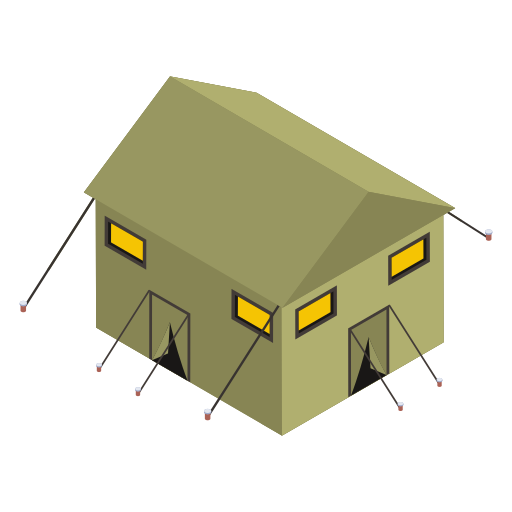
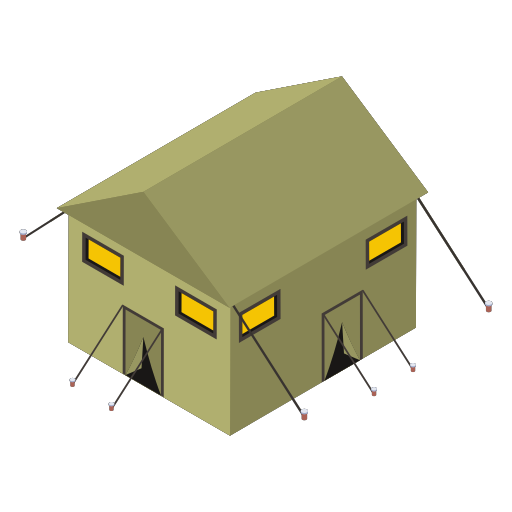
trung

diff --git a/Behaviour_Attack.m b/Behaviour_Attack.m
@@ -37,7 +37,8 @@ v_AlphaBM = imresize(v_AlphaBM, [ImageWidth ImageWidth], 'lanczos3' );
 [v_ImageBF,v_AlphaBF,v_ImageF,v_AlphaF, v_ImageBat, v_AlphaBat]=LoadImageBase();
 [v_ImageBoom,v_AlphaBoom,v_ImageN,v_AlphaN,v_ImageEmpty,v_AlphaEmpty]=LoadImageBoom();
 [v_ImageFR,v_AlphaFR,v_ImageFB,v_AlphaFB]=LoadImageFlag();
-[v_ImageFence,v_AlphaFence]=LoadImageFence();
+[v_ImageFence1,v_AlphaFence1]=LoadImageFence1();
+[v_ImageFence2,v_AlphaFence2]=LoadImageFence2();
 [v_ImageHome,v_AlphaHome]=LoadImageHome();
 
 % draw graphic
@@ -47,8 +48,8 @@ v_AlphaBM = imresize(v_AlphaBM, [ImageWidth ImageWidth], 'lanczos3' );
 [BasesPlot]=InitializeBase(v_ImageBF,v_AlphaBF);
 
 % draw fence and house
-[FencePlot]=InitializeFence(v_ImageFence,v_AlphaFence);
-
+[Fence1Plot]=InitializeFence1(v_ImageFence1,v_AlphaFence1);
+[Fence2Plot]=InitializeFence2(v_ImageFence2,v_AlphaFence2);
 [HousePlot]=InitializeHouse(v_ImageHome,v_AlphaHome);
 
 % draw flight

diff --git a/InitializeFence1.m b/InitializeFence1.m
@@ -1,0 +1,14 @@
+function [Fence1Plot]=InitializeFence(v_ImageFence1,v_AlphaFence1)
+%%fence1 field
+    angle = 135;	% imrotate rotates ccw     
+    img_i = imrotate(v_ImageFence1, angle);
+    alpha_i = imrotate(v_AlphaFence1, angle );
+    Fence1Plot= image(-405, -90, img_i);
+    Fence1Plot.AlphaData = alpha_i;
+
+%%house field
+%    angle = 0;	% imrotate rotates ccw     
+%    img_i = imrotate(v_ImageHome, angle);
+%    alpha_i = imrotate(v_AlphaHome, angle );
+%    OtherPlot= image(-600, -600, img_i);
+%    OtherPlot.AlphaData = alpha_i;  

diff --git a/InitializeFence2.m b/InitializeFence2.m
@@ -1,0 +1,13 @@
+function [Fence2Plot]=InitializeFence2(v_ImageFence2,v_AlphaFence2)
+%%fence1 field
+    angle = 125;	% imrotate rotates ccw     
+    img_i = imrotate(v_ImageFence2, angle);
+    alpha_i = imrotate(v_AlphaFence2, angle );
+    Fence2Plot= image(-220, 205, img_i);
+    Fence2Plot.AlphaData = alpha_i;
+%%house field
+%    angle = 0;	% imrotate rotates ccw     
+%    img_i = imrotate(v_ImageHome, angle);
+%    alpha_i = imrotate(v_AlphaHome, angle );
+%    OtherPlot= image(-600, -600, img_i);
+%    OtherPlot.AlphaData = alpha_i;  

diff --git a/LoadImageFence1.m b/LoadImageFence1.m
@@ -1,0 +1,13 @@
+function [v_ImageFence1,v_AlphaFence1]=LoadImageFence1()
+
+[v_ImageFence1, ~, v_AlphaFence1]	= imread('hangRao.png');
+v_ImageFence1 = imresize(v_ImageFence1, [33 205], 'lanczos3' );
+v_AlphaFence1 = imresize(v_AlphaFence1, [33 205], 'lanczos3' );
+
+
+
+
+%[v_ImageHome, ~, v_AlphaHome]	= imread('6186627.png');
+%v_ImageHome = imresize(v_ImageHome, [100 100], 'lanczos3' );
+%v_AlphaHome = imresize(v_AlphaHome, [100 100], 'lanczos3' );
+

diff --git a/LoadImageFence2.m b/LoadImageFence2.m
@@ -1,0 +1,13 @@
+function [v_ImageFence2,v_AlphaFence2]=LoadImageFence2()
+
+[v_ImageFence2, ~, v_AlphaFence2]	= imread('hangRao.png');
+v_ImageFence2 = imresize(v_ImageFence2, [33 205], 'lanczos3' );
+v_AlphaFence2 = imresize(v_AlphaFence2, [33 205], 'lanczos3' );
+
+
+
+
+%[v_ImageHome, ~, v_AlphaHome]	= imread('6186627.png');
+%v_ImageHome = imresize(v_ImageHome, [100 100], 'lanczos3' );
+%v_AlphaHome = imresize(v_AlphaHome, [100 100], 'lanczos3' );
+

diff --git a/InitializeHouse.m b/InitializeHouse.m
@@ -1,8 +1,8 @@
 function [HousePlot]=InitializeHouse(v_ImageHome,v_AlphaHome)
  
 %%house field
-    angle = 0;	% imrotate rotates ccw     
+    angle = 180;	% imrotate rotates ccw     
     img_i = imrotate(v_ImageHome, angle);
     alpha_i = imrotate(v_AlphaHome, angle );
-    HousePlot= image(-600, -600, img_i);
+    HousePlot= image(-450, 15, img_i);
     HousePlot.AlphaData = alpha_i;  

diff --git a/LoadImageHome.m b/LoadImageHome.m
@@ -1,6 +1,6 @@
 function [v_ImageHome,v_AlphaHome]=LoadImageHome()
 
 [v_ImageHome, ~, v_AlphaHome]	= imread('6186627.png');
-v_ImageHome = imresize(v_ImageHome, [100 100], 'lanczos3' );
-v_AlphaHome = imresize(v_AlphaHome, [100 100], 'lanczos3' );
+v_ImageHome = imresize(v_ImageHome, [180 100], 'lanczos3' );
+v_AlphaHome = imresize(v_AlphaHome, [180 100], 'lanczos3' );
 
